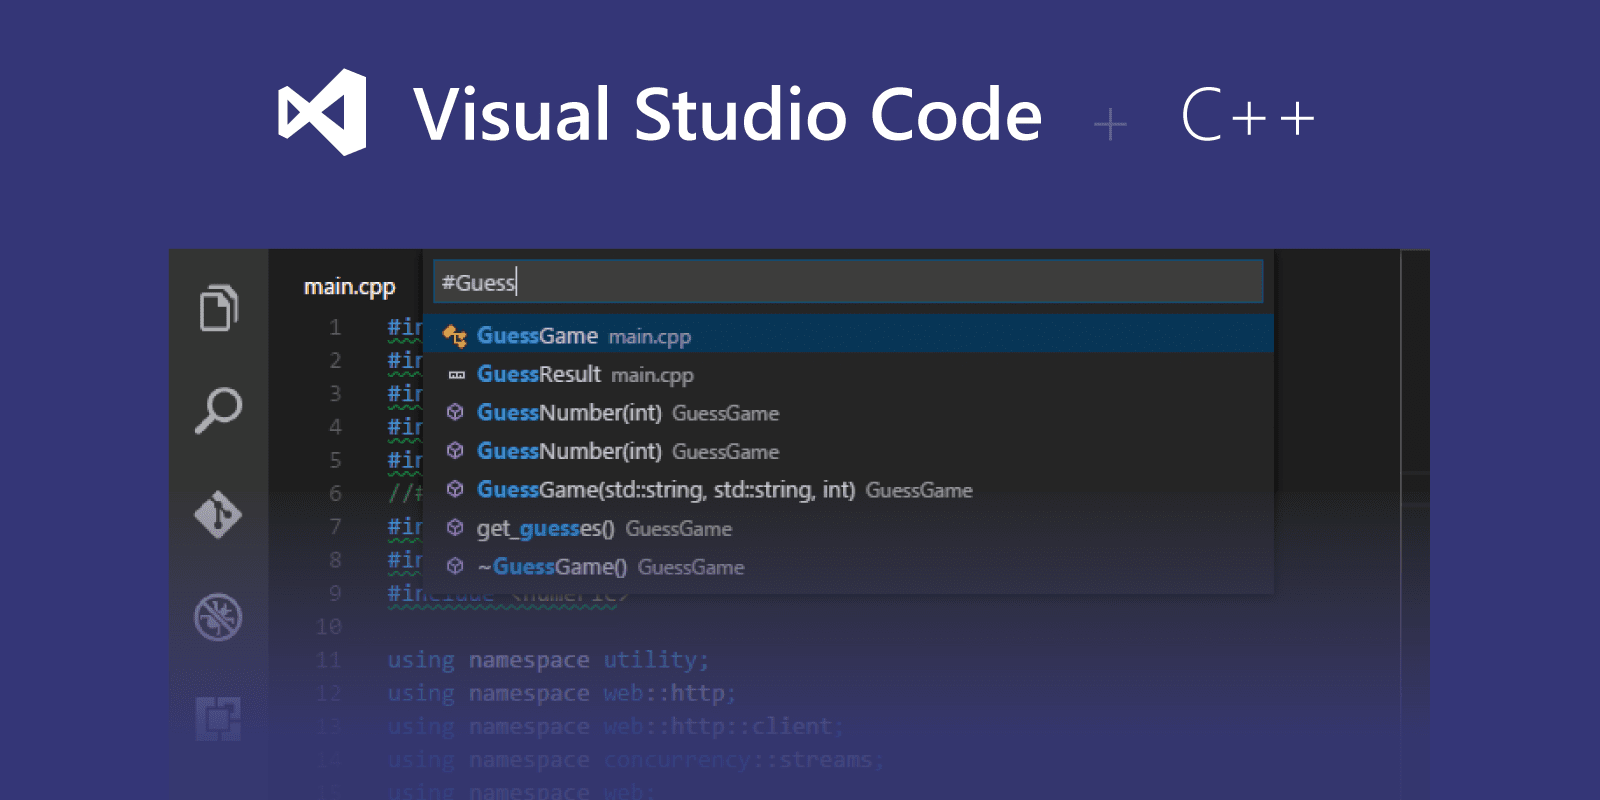
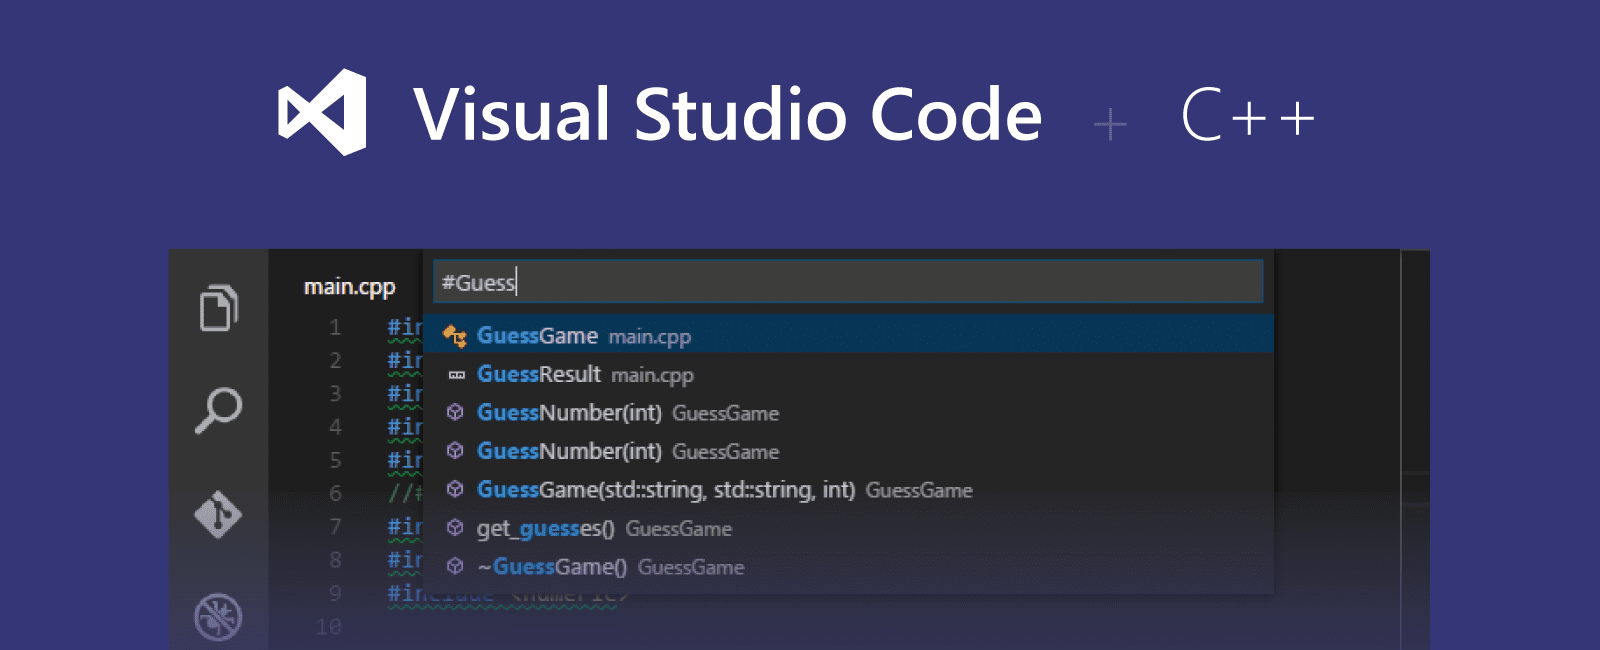
removed profile from index

diff --git a/assets/css/dark.scss b/assets/css/dark.scss
@@ -203,7 +203,7 @@ $skilltag-background-color: #2f4c6a !default;
 
 .page__hero--overlay {
   margin-bottom: 0.5em !important;
-  background-image: linear-gradient(rgba(0, 0, 0, 0.2), rgba(0, 0, 0, 0.2)), url('/assets/images/splash-5.jpg') !important;
+  background-image: linear-gradient(rgba(0, 0, 0, 0.2), rgba(0, 0, 0, 0.2)), url('/assets/images/splash.jpg') !important;
 
   a {
     outline: none !important;

diff --git a/index.html b/index.html
@@ -7,11 +7,9 @@ header:
   no_overlay_title: true
   overlay_color: "#000"
   overlay_filter: "0.2"
-  overlay_image: /assets/images/splash-5.jpg
+  overlay_image: /assets/images/splash.jpg
 author_profile: true
 ---
-
-<img id="landing_profile-image" src="/assets/images/profile.jpg" alt="Profile photo">
 
 <h1 class="landing_page-title">
     >&nbsp;<span class="terminal-text" data-period="7000"

diff --git a/_sass/minimal-mistakes/_masthead.scss b/_sass/minimal-mistakes/_masthead.scss
@@ -45,7 +45,7 @@
 
 .masthead::after {
   position:absolute; width:0; height:0; overflow:hidden; z-index:-1;
-  content: url('/assets/images/splash-2.png') url('/assets/images/splash-5.jpg') url('/assets/images/profile.jpg');
+  content: url('/assets/images/splash.jpg') url('/assets/images/profile.jpg');
 }
 
 .site-title {

diff --git a/_sass/minimal-mistakes/_page.scss b/_sass/minimal-mistakes/_page.scss
@@ -600,7 +600,7 @@ footer.page__meta {
 .landing_page-title {
   font-family: $monospace;
   font-size: 4rem !important;
-  margin-top: 1rem;
+  margin-top: 4.5rem;
 }
 
 #landing_profile-image {

diff --git a/_posts/2021-07-25-cpp-vscode.md b/_posts/2021-07-25-cpp-vscode.md
@@ -17,7 +17,7 @@ toc_sticky: true
 
 <div class="article-content-start">
   <p class="article-text">
-    <img class="article-text-image" src="/assets/images/vscode-cpp-2.png" alt="vscode-cpp-preview">
+    <img class="article-text-image" src="/assets/images/vscode-cpp.png" alt="vscode-cpp-preview">
     <span class="article-text-image-caption">
       <a class="article-text-link" href="https://code.visualstudio.com/docs/languages/cpp">Source: The Official VSCode C++ Documentation</a>.
     </span>
